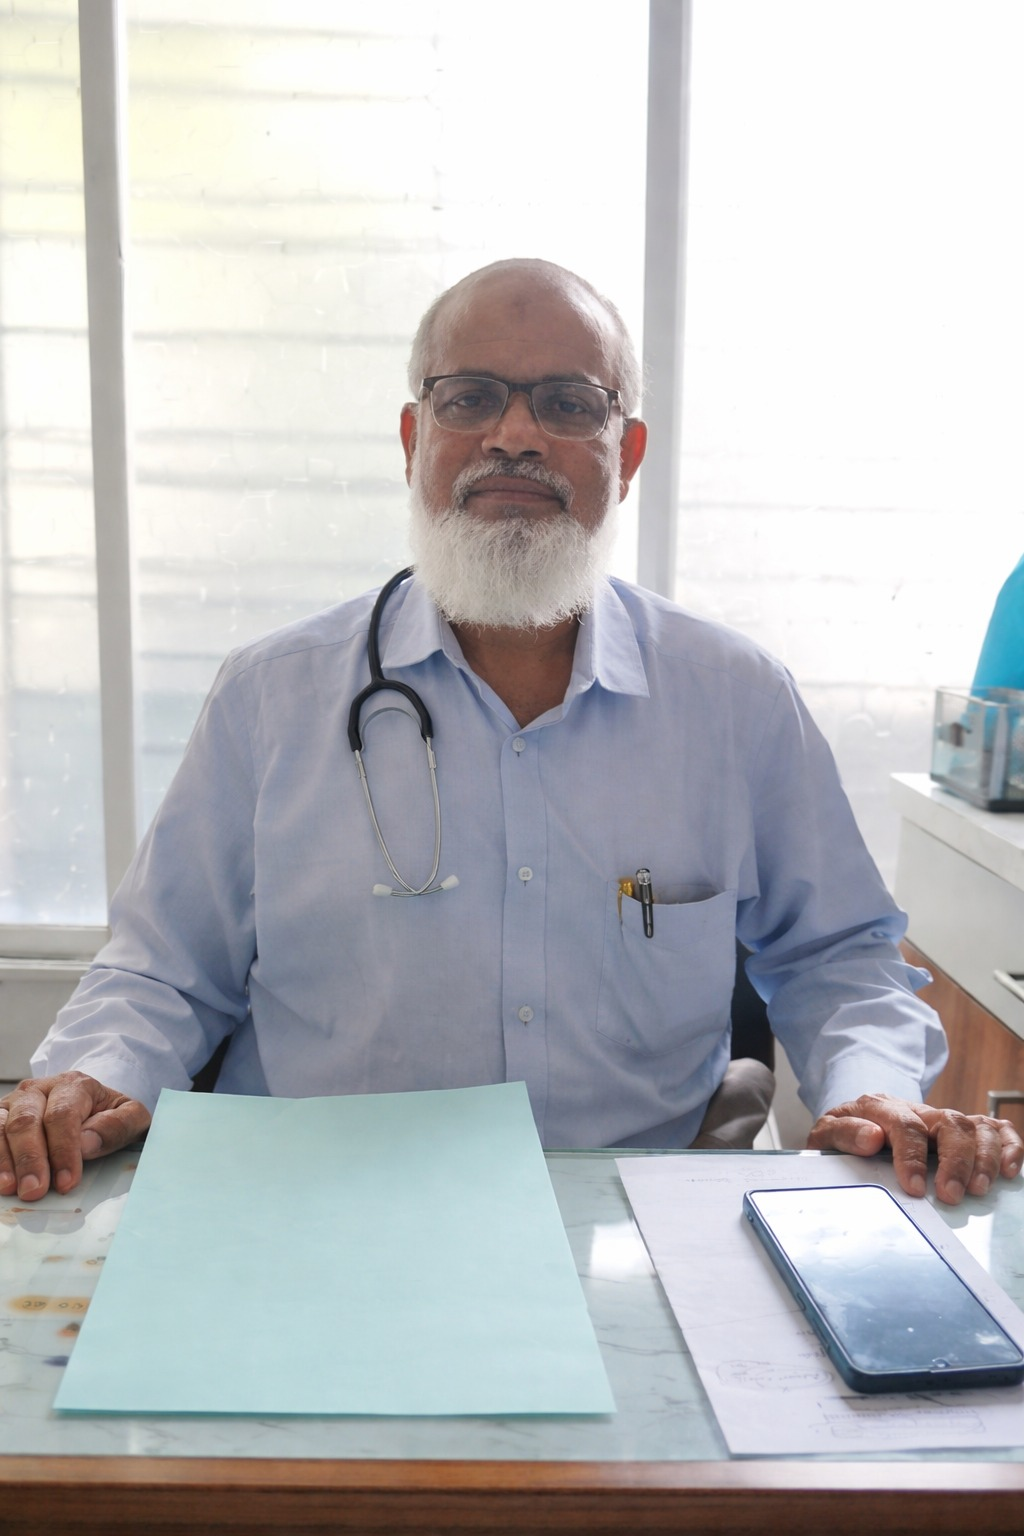
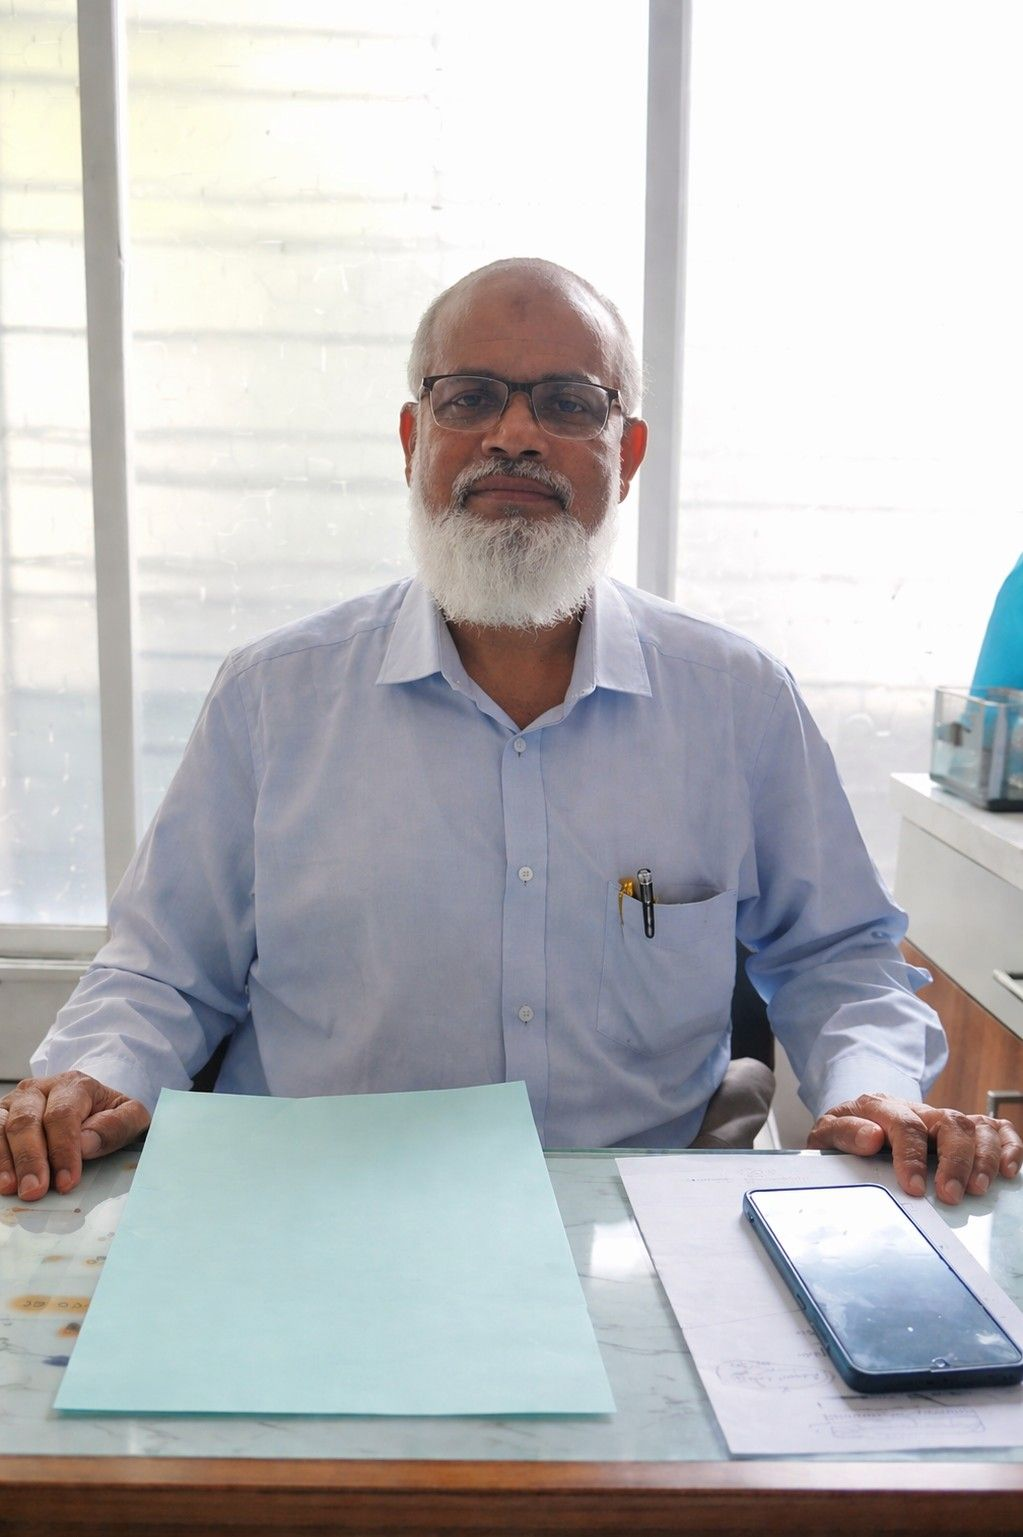
Add & Changes

diff --git a/src/i18n/bn.ts b/src/i18n/bn.ts
@@ -161,6 +161,10 @@ const bn: TranslationKeys = {
       label: "সার্জিকাল শ্রেষ্ঠত্বের বছর",
     },
     qualifications: {
+      degree: {
+        title: "ডিগ্রি",
+        text: "এমবিবিএস, এম.এস. (অপথ, ১৯৮৯), ডি.ও. (আলিগ), এফ.আর.সি.এস. (গ্লাসগো-ইউকে, ২০০৫)",
+      },
       specialization: {
         title: "বিশেষত্ব",
         text: "সিনিয়র কনসালট্যান্ট অফথালমোলজিস্ট",

diff --git a/src/components/DoctorProfile.tsx b/src/components/DoctorProfile.tsx
@@ -9,6 +9,7 @@ export const DoctorProfile = () => {
   const { t } = useLanguage();
 
   const qualifications = [
+    { icon: GraduationCap, title: t.doctor.qualifications.degree.title, text: t.doctor.qualifications.degree.text },
     { icon: GraduationCap, title: t.doctor.qualifications.specialization.title, text: t.doctor.qualifications.specialization.text },
     { icon: Microscope, title: t.doctor.qualifications.expertise.title, text: t.doctor.qualifications.expertise.text },
     { icon: Award, title: t.doctor.qualifications.experience.title, text: t.doctor.qualifications.experience.text },

diff --git a/src/components/Hero.tsx b/src/components/Hero.tsx
@@ -92,7 +92,7 @@ export const Hero = () => {
             <div className="relative rounded-[3rem] overflow-hidden shadow-2xl border-8 border-white aspect-4/5 md:aspect-square bg-slate-100">
               <video
                 src={heroVideo}
-                className="w-full h-full object-cover"
+                className="w-full h-full object-contain sm:object-cover "
                 autoPlay
                 loop
                 muted

diff --git a/src/i18n/en.ts b/src/i18n/en.ts
@@ -160,6 +160,10 @@ const en = {
       label: "Years of Surgical Excellence",
     },
     qualifications: {
+      degree: {
+        title: "Degree",
+        text: "MBBS, M.S.(Ophth,1989), D.O.(Alig), F.R.C.S.(Glasgow-UK,2005)",
+      },
       specialization: {
         title: "Specialization",
         text: "Senior Consultant Ophthalmologist",
